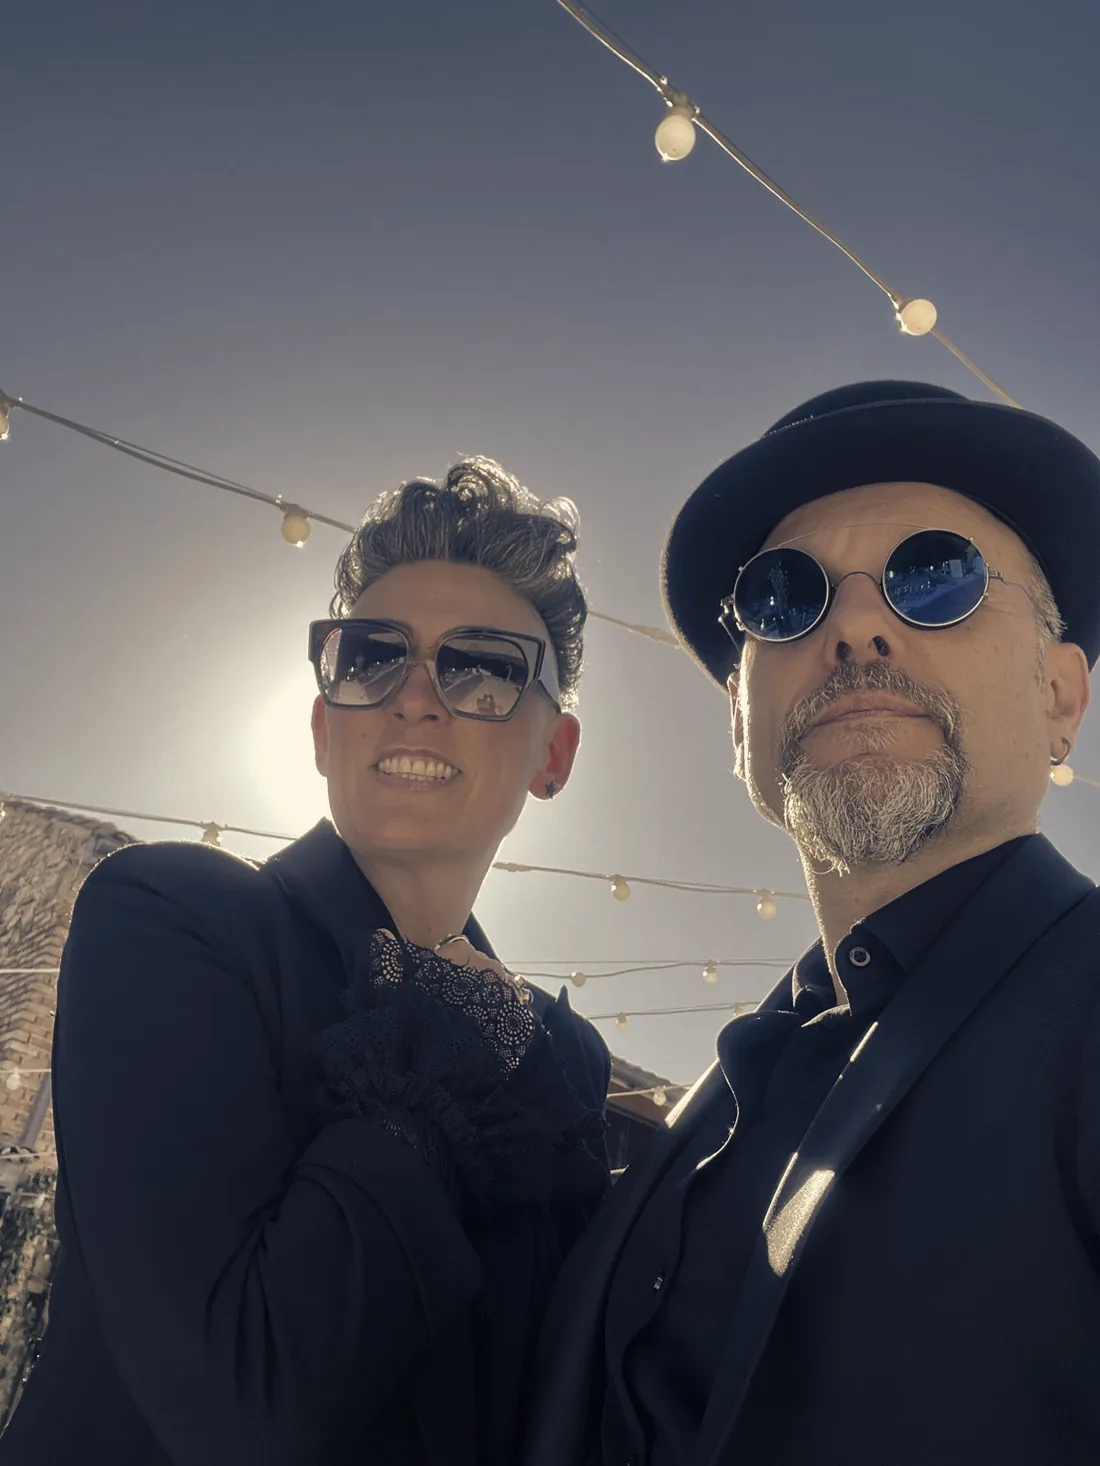
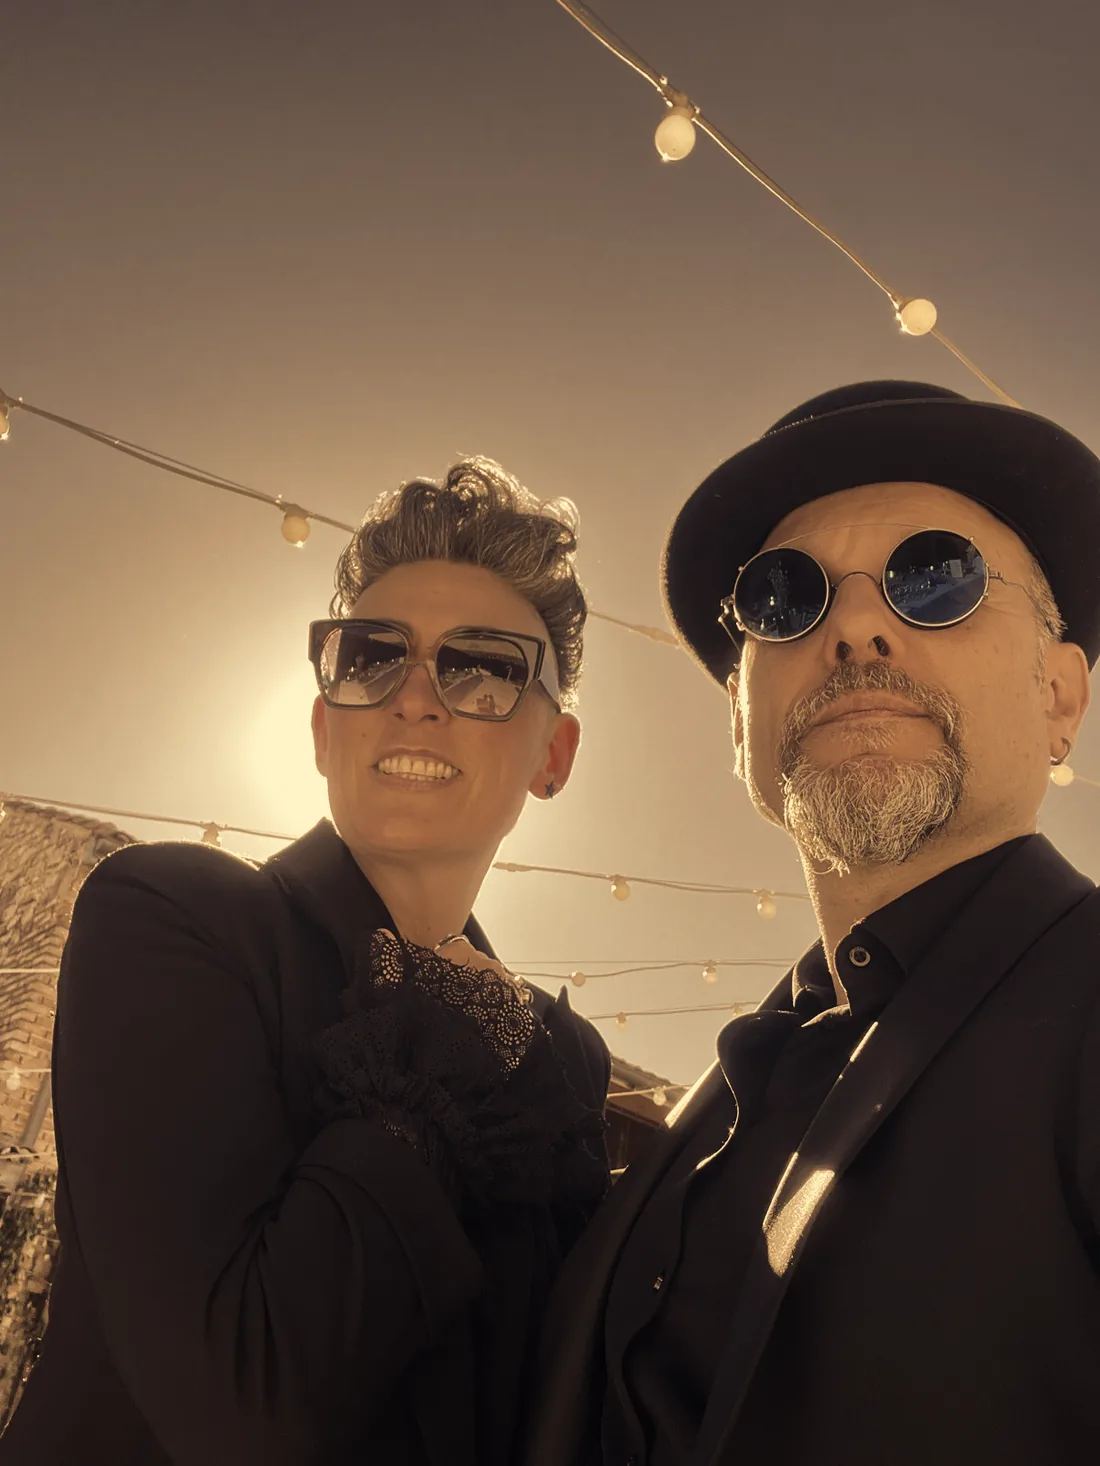
Étalonnage plus chaud : ambre, noir chaud
Claude-Session: https://claude.ai/code/session_01WtbxhUNH8N8yMHSShPVKuQ

diff --git a/buble-sinatra/crooners-photos.html b/buble-sinatra/crooners-photos.html
@@ -11,7 +11,7 @@
 <link href="https://fonts.googleapis.com/css2?family=Bodoni+Moda:ital,wght@0,500;0,800;1,500&family=Italiana&family=Pinyon+Script&family=Jost:wght@300;400;500&display=swap" rel="stylesheet">
 <style>
 :root{
-  --ink:#05070b; --ink2:#0b0f16; --steel:#9fb4d0; --gold:#d9b45f; --gold2:#f4e2a8; --gold3:#8c6a24;
+  --ink:#0a0706; --ink2:#120d0a; --steel:#d9b27a; --gold:#d9b45f; --gold2:#f4e2a8; --gold3:#8c6a24;
   --cream:#efe6d2; --muted:#a89a7f; --red:#8e1b22;
   --serif:'Bodoni Moda','Didot',Georgia,serif; --deco:'Italiana','Bodoni Moda',serif;
   --script:'Pinyon Script','Snell Roundhand',cursive; --sans:'Jost','Helvetica Neue',Arial,sans-serif;
